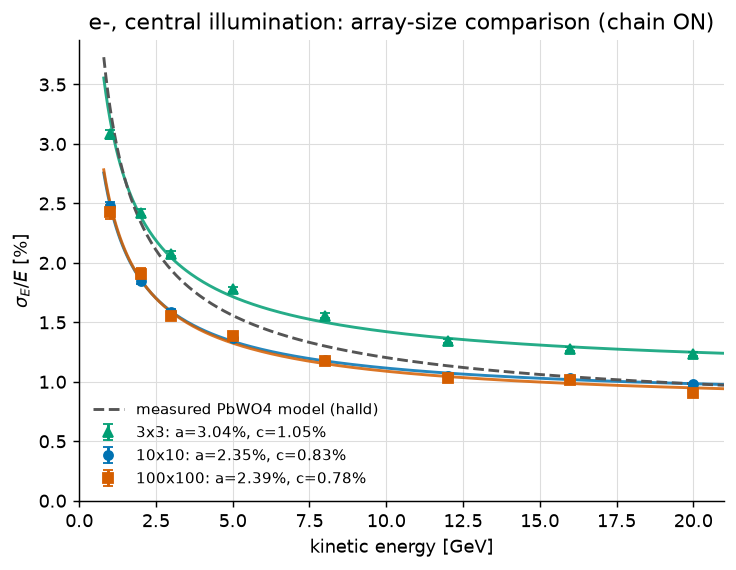
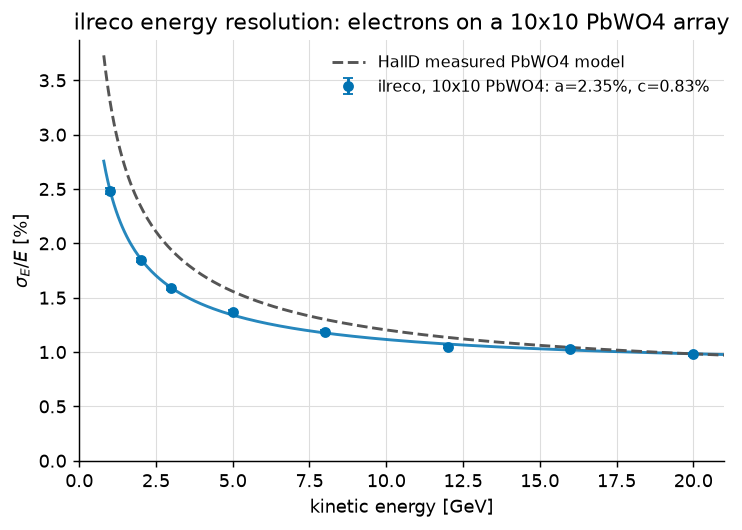
Improve API and tests around it

diff --git a/src/ilreco/ilreco.c b/src/ilreco/ilreco.c
@@ -81,9 +81,9 @@ struct ilreco_config {
 };
 
 struct ilreco_workspace {
+    const ilreco_config *cfg;  /* the calorimeter this workspace was created
+                                  for; the config must outlive the workspace */
     int32_t stride;        /* row length of iwrk/idp/fwrk; == cfg->madr       */
-    int32_t mcl;           /* copies of the config capacities, for checking   */
-    int32_t madcgam;       /*   that workspace and config match               */
     /* per-event buffers (filled by ilreco_reconstruct) */
     int32_t *ia;           /* [madr]  packed cell addresses, used from 1      */
     double  *id;           /* [madr]  cell energies [GeV], parallel to ia     */
@@ -310,9 +310,8 @@ ilreco_workspace *ilreco_workspace_create(const ilreco_config *cfg) {
     ilreco_workspace *wk = calloc(1, sizeof *wk);
     if (!wk) return NULL;
     const size_t m = (size_t)cfg->madr;
+    wk->cfg = cfg;
     wk->stride = cfg->madr;
-    wk->mcl = cfg->mcl;
-    wk->madcgam = cfg->madcgam;
     const size_t n_int = m /*ia*/ + m /*iwork*/ + (size_t)cfg->mcl /*lencl*/
                        + (8 * m + 2) /*iazero*/
                        + (size_t)(_MPK_ + 1) * m /*iwrk*/
@@ -345,12 +344,12 @@ void ilreco_workspace_destroy(ilreco_workspace *ws) {
     free(ws);
 }
 
-int32_t ilreco_reconstruct(const ilreco_config *cfg, ilreco_workspace *ws,
+int32_t ilreco_reconstruct(ilreco_workspace *ws,
                            const ilreco_hit *hits, int32_t n_hits,
                            ilreco_cluster *out, int32_t max_out) {
-    if (!cfg || !ws || n_hits < 0 || (n_hits > 0 && !hits) ||
-        ws->stride < cfg->madr || n_hits > cfg->madr - 2)
-        return -1;
+    if (!ws || n_hits < 0 || (n_hits > 0 && !hits)) return -1;
+    const ilreco_config *cfg = ws->cfg;
+    if (n_hits > cfg->madr - 2) return -1;
     for (int32_t i = 0; i < n_hits; ++i) {
         if (hits[i].col < 0 || hits[i].col >= cfg->ncol ||
             hits[i].row < 0 || hits[i].row >= cfg->nrow)

diff --git a/tests/unit/test_context_api.cpp b/tests/unit/test_context_api.cpp
@@ -1,6 +1,9 @@
 // Context-API tests: 0-based conventions, error handling, dynamic grid
 // sizing, and true multithreading (N threads, one shared const config, one
 // workspace per thread — results must equal the serial reference exactly).
+//
+// Shared helpers (ilt::run_event, TestContext, synth_shower, Rng) come from
+// common/ilreco_test_utils.h; infrastructure map: tests/README.md.
 
 #include <catch2/catch_test_macros.hpp>
 #include <catch2/matchers/catch_matchers_floating_point.hpp>
@@ -17,7 +20,7 @@ namespace {
 std::vector<ilreco_cluster> run_on(const ilt::TestContext& context,
                                    const std::vector<ilreco_hit>& hits) {
     std::vector<ilreco_cluster> clusters(64);
-    const int n_found = ilreco_reconstruct(context.config, context.workspace,
+    const int n_found = ilreco_reconstruct(context.workspace,
                                            hits.data(), (int)hits.size(),
                                            clusters.data(), (int)clusters.size());
     REQUIRE(n_found >= 0);
@@ -44,11 +47,11 @@ TEST_CASE("context API rejects invalid input", "[unit][context]") {
     ilreco_cluster clusters[4];
     const ilreco_hit col_out_of_range{10, 0, 1.0};
     const ilreco_hit row_negative{0, -1, 1.0};
-    CHECK(ilreco_reconstruct(context.config, context.workspace,
+    CHECK(ilreco_reconstruct(context.workspace,
                              &col_out_of_range, 1, clusters, 4) == -1);
-    CHECK(ilreco_reconstruct(context.config, context.workspace,
+    CHECK(ilreco_reconstruct(context.workspace,
                              &row_negative, 1, clusters, 4) == -1);
-    CHECK(ilreco_reconstruct(context.config, context.workspace,
+    CHECK(ilreco_reconstruct(context.workspace,
                              nullptr, 0, clusters, 4) == 0);
 }
 
@@ -86,7 +89,7 @@ TEST_CASE("multithreading: shared config, workspace per thread, exact results",
             for (int i = 0; i < N_EVENTS; ++i) {
                 ilreco_cluster clusters[64];
                 const int n_found =
-                    ilreco_reconstruct(serial.config, workspace, events[i].data(),
+                    ilreco_reconstruct(workspace, events[i].data(),
                                        (int)events[i].size(), clusters, 64);
                 per_thread[t][i].assign(clusters, clusters + std::min(n_found, 64));
             }

diff --git a/tests/common/ilreco_test_utils.h b/tests/common/ilreco_test_utils.h
@@ -1,9 +1,15 @@
-// Shared helpers for the ilreco test suite.
+// Shared helpers for the ilreco test suite — the ONLY place test
+// infrastructure is defined (see tests/README.md, "Infrastructure map").
 //
 // Everything here speaks the library's own conventions (see ilreco.h):
 // 0-based (col, row) cell indices, energies in GeV, cluster positions in
 // 0-based cell units. Most tests run on one shared GRID_COLS x GRID_ROWS
 // context — the golden fixtures in tests/data were recorded on that grid.
+//
+// ILRECO_PROF_PWO (used below) is a compile definition set in
+// tests/CMakeLists.txt: the absolute path of the shipped shower-profile
+// file data/prof_pwo.dat. Its sibling ILRECO_TEST_DATA (used by the golden
+// tests) is the absolute path of the fixture directory tests/data.
 #ifndef ILRECO_TEST_UTILS_H
 #define ILRECO_TEST_UTILS_H
 
@@ -62,7 +68,7 @@ inline std::vector<ilreco_cluster> run_event(const std::vector<ilreco_hit>& hits
     constexpr int MAX_CLUSTERS = 256;
     TestContext& context = default_context();
     std::vector<ilreco_cluster> clusters(MAX_CLUSTERS);
-    const int n_found = ilreco_reconstruct(context.config, context.workspace,
+    const int n_found = ilreco_reconstruct(context.workspace,
                                            hits.data(), (int)hits.size(),
                                            clusters.data(), MAX_CLUSTERS);
     if (n_found < 0)

diff --git a/tests/unit/test_cell_mask.cpp b/tests/unit/test_cell_mask.cpp
@@ -2,6 +2,9 @@
 // hole — the EIC-B0-like case). Verifies input validation, mask-derived type
 // labels, the physics effect (honest containment correction at real
 // boundaries), and equivalence when the mask marks every cell as existing.
+//
+// Shared helpers (ilt::run_event, TestContext, synth_shower, Rng) come from
+// common/ilreco_test_utils.h; infrastructure map: tests/README.md.
 
 #include <catch2/catch_test_macros.hpp>
 
@@ -49,7 +52,7 @@ struct MaskedContext {
 
     std::vector<ilreco_cluster> run(const std::vector<ilreco_hit>& hits) {
         std::vector<ilreco_cluster> clusters(16);
-        const int n_found = ilreco_reconstruct(config, workspace, hits.data(),
+        const int n_found = ilreco_reconstruct(workspace, hits.data(),
                                                (int)hits.size(), clusters.data(), 16);
         REQUIRE(n_found >= 0);
         clusters.resize(std::min(n_found, 16));
@@ -65,9 +68,9 @@ TEST_CASE("mask: hits on missing cells are rejected", "[unit][mask]") {
     ilreco_cluster clusters[4];
     const ilreco_hit on_hole_cell{5, 4, 1.0};
     const ilreco_hit outside_circle{0, 0, 1.0};
-    CHECK(ilreco_reconstruct(detector.config, detector.workspace,
+    CHECK(ilreco_reconstruct(detector.workspace,
                              &on_hole_cell, 1, clusters, 4) == -1);
-    CHECK(ilreco_reconstruct(detector.config, detector.workspace,
+    CHECK(ilreco_reconstruct(detector.workspace,
                              &outside_circle, 1, clusters, 4) == -1);
 }
 

diff --git a/src/ilreco/ilreco.h b/src/ilreco/ilreco.h
@@ -84,17 +84,19 @@ void ilreco_config_set_hole_classification(ilreco_config *cfg, int32_t enabled);
 int32_t ilreco_config_set_cell_mask(ilreco_config *cfg, const unsigned char *mask);
 
 /* Per-thread workspace: ONE allocation (internal arena), reused for every
- * event. Never share a workspace between threads. */
+ * event. The workspace keeps a reference to cfg — after this call the config
+ * is only needed to spawn further workspaces, and it must outlive every
+ * workspace created from it. Never share a workspace between threads. */
 ilreco_workspace *ilreco_workspace_create(const ilreco_config *cfg);
 void ilreco_workspace_destroy(ilreco_workspace *ws);
 
-/* Reconstruct one event. Zero allocations.
+/* Reconstruct one event on the workspace's calorimeter. Zero allocations.
  *   hits, n_hits   fired cells, any order, one entry per cell
  *   out, max_out   receives up to max_out clusters, energy-descending
  * Returns the number of clusters found (may exceed max_out), or -1 on
  * invalid input (hit outside the grid or on a masked-out cell, negative
  * n_hits, ...). */
-int32_t ilreco_reconstruct(const ilreco_config *cfg, ilreco_workspace *ws,
+int32_t ilreco_reconstruct(ilreco_workspace *ws,
                            const ilreco_hit *hits, int32_t n_hits,
                            ilreco_cluster *out, int32_t max_out);
 

diff --git a/tests/unit/test_contracts.cpp b/tests/unit/test_contracts.cpp
@@ -1,6 +1,9 @@
 // Contract tests for the ilreco public API. These pin down what callers can
 // rely on — NOT the internal algorithm. Cells are 0-based (col, row), cluster
 // positions in 0-based cell units, exactly as in ilreco.h.
+//
+// Shared helpers (ilt::run_event, TestContext, synth_shower, Rng) come from
+// common/ilreco_test_utils.h; infrastructure map: tests/README.md.
 
 #include <catch2/catch_test_macros.hpp>
 #include <catch2/matchers/catch_matchers_floating_point.hpp>
@@ -140,7 +143,7 @@ TEST_CASE("independent contexts from the same profile give identical results",
 
     ilt::TestContext fresh(GRID_COLS, GRID_ROWS);
     ilreco_cluster clusters[8];
-    const int n_found = ilreco_reconstruct(fresh.config, fresh.workspace,
+    const int n_found = ilreco_reconstruct(fresh.workspace,
                                            hits.data(), (int)hits.size(),
                                            clusters, 8);
     REQUIRE(n_found == (int)from_shared.size());

diff --git a/tests/benchmark/bench_main.cpp b/tests/benchmark/bench_main.cpp
@@ -4,6 +4,9 @@
 // quiet machine when intentionally re-baselining).
 //
 //   ilreco_bench [--reps N]
+//
+// Shared helpers (ilt::run_event, TestContext, synth_shower, Rng) come from
+// common/ilreco_test_utils.h; infrastructure map: tests/README.md.
 
 #include <chrono>
 #include <cstdio>

diff --git a/tests/data/test_golden.cpp b/tests/data/test_golden.cpp
@@ -4,6 +4,9 @@
 // data (see tests/README.md for provenance); tolerances absorb FP noise
 // across compilers, nothing more. A mismatch here means the physics output
 // changed — that is the point of this suite.
+//
+// Golden CSV I/O comes from common/csv_io.h (which converts the 1-based file
+// format to the 0-based API); infrastructure map: tests/README.md.
 
 #include <catch2/catch_test_macros.hpp>
 #include <catch2/matchers/catch_matchers_floating_point.hpp>

diff --git a/tests/smoke/test_smoke.cpp b/tests/smoke/test_smoke.cpp
@@ -1,6 +1,9 @@
 // Smoke sweeps: large volumes of generated inputs, asserting only the coarse
 // health contract — no crash, finite outputs, positions on the grid. This is
 // the first net that catches memory corruption after a refactor.
+//
+// Shared helpers (ilt::run_event, TestContext, synth_shower, Rng) come from
+// common/ilreco_test_utils.h; infrastructure map: tests/README.md.
 
 #include <catch2/catch_test_macros.hpp>
 

diff --git a/tests/tools/gen_golden.cpp b/tests/tools/gen_golden.cpp
@@ -4,6 +4,9 @@
 // regenerated tables together with the change that caused them.
 //
 //   ilreco_gen_golden input_central.csv expected_central.csv
+//
+// Golden CSV I/O comes from common/csv_io.h (which converts the 1-based file
+// format to the 0-based API); infrastructure map: tests/README.md.
 
 #include <cstdio>
 #include <map>

diff --git a/tests/unit/test_edge_inputs.cpp b/tests/unit/test_edge_inputs.cpp
@@ -1,6 +1,9 @@
 // Edge-input behavior. Some of these document CURRENT behavior rather than a
 // designed contract (marked [documented]); if a future change alters them,
 // that may be intentional — check KNOWN_ISSUES.md before "fixing" the test.
+//
+// Shared helpers (ilt::run_event, TestContext, synth_shower, Rng) come from
+// common/ilreco_test_utils.h; infrastructure map: tests/README.md.
 
 #include <catch2/catch_test_macros.hpp>
 

diff --git a/tests/README.md b/tests/README.md
@@ -1,9 +1,8 @@
 # ilreco test suite
 
-Safety net built BEFORE any modernization of the library (0-based indexing, dynamic
-allocation are planned): the goal is that any future code change either reproduces
-these outputs or consciously re-baselines them. Library sources are untouched by
-this suite; only CMake files were edited (version bumps + new targets).
+The safety net around the library: any code change must either reproduce these
+outputs exactly or consciously re-baseline them (and commit the new tables
+together with the change that caused them).
 
 Build & run (Catch2 v3 fetched automatically):
 
@@ -12,14 +11,27 @@ cmake -B build && cmake --build build -j
 cd build && ctest --output-on-failure
 ```
 
+## Infrastructure map — where everything comes from
+
+| provides | what |
+|---|---|
+| `tests/CMakeLists.txt` | the four ctest targets, and two compile definitions visible in every test: `ILRECO_PROF_PWO` = absolute path of the shipped shower-profile file `data/prof_pwo.dat`; `ILRECO_TEST_DATA` = absolute path of the golden fixture directory `tests/data` |
+| `common/ilreco_test_utils.h` | namespace `ilt::` — everything the tests share: `GRID_COLS`/`GRID_ROWS` (the 34×34 default test grid), `TestContext` (RAII config + workspace), `default_context()`, `run_event()` (reconstruct one event on the shared context), `finite()`, `Rng` (deterministic LCG), `synth_shower()` (generated shower events) |
+| `common/csv_io.h` | golden-table CSV reading/writing; converts the frozen 1-based file format to the library's 0-based convention at the file boundary — the only place that conversion exists |
+| Catch2 v3 | fetched by CMake `FetchContent` at configure time; test binaries link `Catch2::Catch2WithMain` (it supplies `main`) |
+
+House rule: a test file includes only `ilreco.h` (via the helpers), Catch2
+headers, and the two `common/` headers. Anything shared lives in `common/`;
+nothing is defined in one test file and used from another.
+
 ## Categories
 
 | dir | ctest name | what it protects |
 |---|---|---|
-| `unit/` | `unit` | API contracts: addressing round-trips (incl. corners), cluster counting, order-invariance, energy scaling/envelope, finiteness. Tests contracts, not internals — they should survive refactoring. Tags: `[contract]`, `[edge]`, `[documented]` (= pins observed behavior whose *intent* is unclear; check KNOWN_ISSUES.md before "fixing"). |
+| `unit/` | `unit` | API contracts: addressing round-trips (incl. corners), cluster counting, order-invariance, energy scaling/envelope, finiteness, error handling, cell-existence mask, multithreading (bitwise vs serial). Tests contracts, not internals — they survive refactoring. Tags: `[contract]`, `[edge]`, `[context]`, `[mask]`, `[threads]`, `[documented]` (= pins observed behavior whose *intent* is unclear; check KNOWN_ISSUES.md before "fixing"). |
 | `smoke/` | `smoke` | thousands of generated events (single/pairs/noise/whole-grid/state-leak check); asserts only crash-freedom and coarse sanity. First net against memory corruption. |
-| `data/` | `data` | golden event-by-event regression tables (input_*.csv + expected_*.csv, 660 events, 364 KB) frozen from Geant4-simulated detector data: central showers at 1/5/20 GeV, TRUE grid corners/edges (leakage response), two-particle overlaps, pi- topologies, synthetic exotics. A mismatch = the physics output changed. |
-| `benchmark/` | `benchmark` | `ilreco_bench [--reps N]` prints JSON (us/event by category); `baseline.json` is the reference. Compare before/after any change. |
+| `data/` | `data` | golden event-by-event regression tables (`input_*.csv` + `expected_*.csv`, 660 events, 364 KB) frozen from Geant4-simulated detector data: central showers at 1/5/20 GeV, TRUE grid corners/edges (leakage response), two-particle overlaps, pi- topologies, synthetic exotics. The files keep their historical 1-based format (see `common/csv_io.h`). A mismatch = the physics output changed. |
+| `benchmark/` | `benchmark` | `ilreco_bench [--reps N]` prints JSON (µs/event by category); `baseline.json` is the reference. Compare before/after any change. |
 | `tools/` | — | `ilreco_gen_golden input.csv expected.csv` re-freezes tables. Only run when a physics change is intended, and commit tables with that change. |
 
 ## Fixture provenance
@@ -27,7 +39,7 @@ cd build && ctest --output-on-failure
 Inputs were produced from the standalone Geant4 PbWO4 simulation (halld-matched
 response chain; currently github-bound as a separate emcal repo, today in the
 cal-fpga workspace — `scripts/750_make_ilreco_fixtures.py`), translated onto the
-stock 34x34 grid; edge/corner sets deliberately shift showers so part of the energy
+34x34 test grid; edge/corner sets deliberately shift showers so part of the energy
 falls off-grid. Golden outputs = the library's own responses at freeze time
 (tolerances 1e-6 rel on E, 1e-5 abs on position absorb FP noise only).
 
@@ -48,7 +60,6 @@ KNOWN_ISSUES.md for triaged findings), benchmark artifact upload.
 ## What is deliberately NOT unit-tested
 
 Internal stages (peak finding, chi2 iteration, profile interpolation) are not
-tested in isolation: they are not reachable through a stable public seam without
-modifying sources, and pinning them would weld tests to the implementation.
-They are covered end-to-end by the golden tables. When the modernization refactor
-introduces proper seams, unit tests can move inward.
+tested in isolation: they are not reachable through a stable public seam, and
+pinning them would weld tests to the implementation. They are covered
+end-to-end by the golden tables.